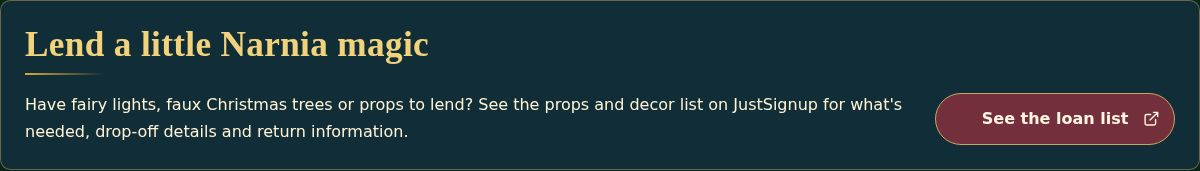
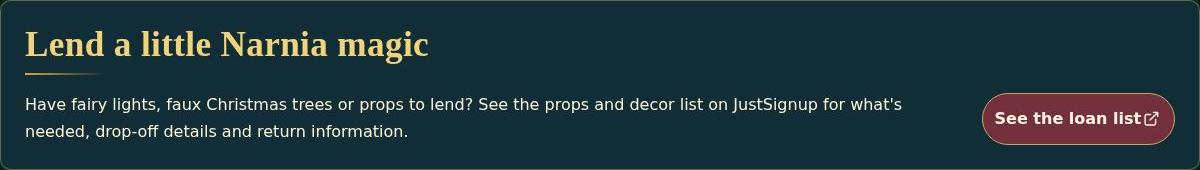
[CF-Pages-Skip] Keep props action readable with enlarged text

diff --git a/tests/e2e/donations-notice-size.spec.ts b/tests/e2e/donations-notice-size.spec.ts
@@ -5,6 +5,7 @@ for(const route of['/events/christmas-fayre-2026/','/christmas-fayre-volunteerin
  const r=await box.evaluate(e=>{const r=e.getBoundingClientRect(),p=e.parentElement!.getBoundingClientRect();return{width:r.width,centre:r.x+r.width/2,parentCentre:p.x+p.width/2,overflow:e.scrollWidth-e.clientWidth}});
  expect(r.overflow).toBeLessThanOrEqual(1);expect(Math.abs(r.centre-r.parentCentre)).toBeLessThan(1);expect(await page.evaluate(()=>document.documentElement.scrollWidth-innerWidth)).toBeLessThanOrEqual(1);
  if(route==='/christmas-fayre-volunteering/'){
+ if(width>=390){const lines=await page.locator('.fayre-volunteer__loan .cta-label').evaluate(e=>e.getBoundingClientRect().height/parseFloat(getComputedStyle(e).lineHeight));expect(lines).toBeLessThanOrEqual(2.1)}
  const gap=await box.locator('.button').evaluate(e=>{const l=e.querySelector('.cta-label')!,a=e.querySelector('.cta-icon')!.getBoundingClientRect(),r=document.createRange();r.selectNodeContents(l);return Math.min(...[...r.getClientRects()].filter(r=>r.width>a.width+1).map(r=>a.left-r.right))});expect(gap).toBeGreaterThan(5);
  }
  if(width>=1280&&scale===1)expect(r.width).toBeLessThan(600);
